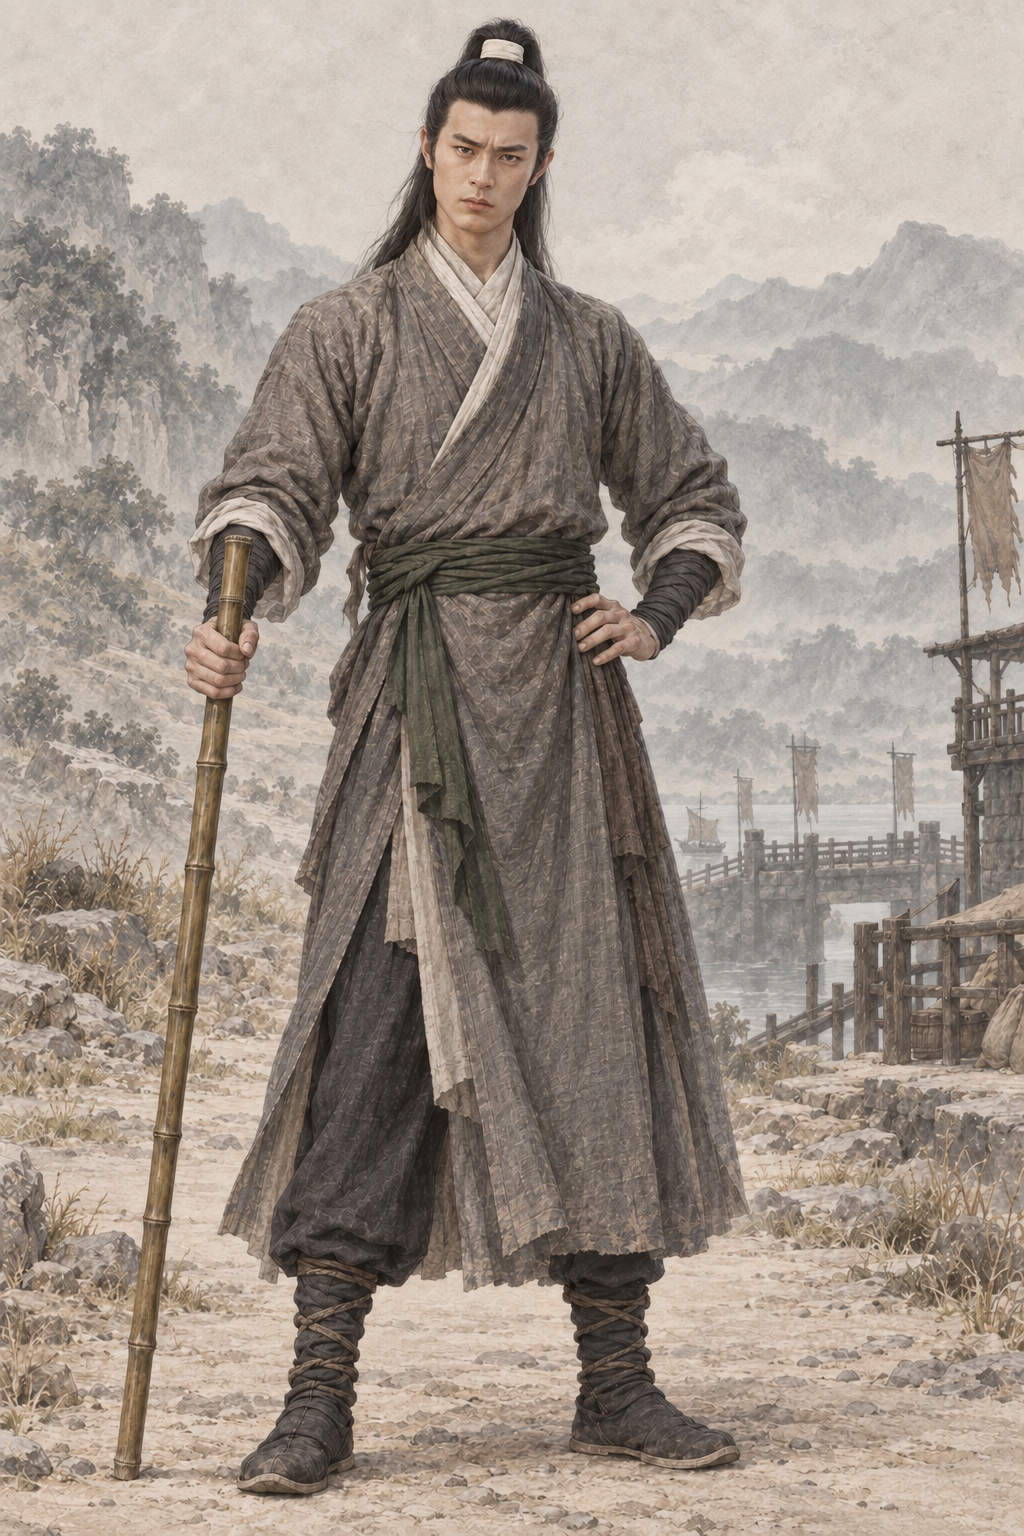
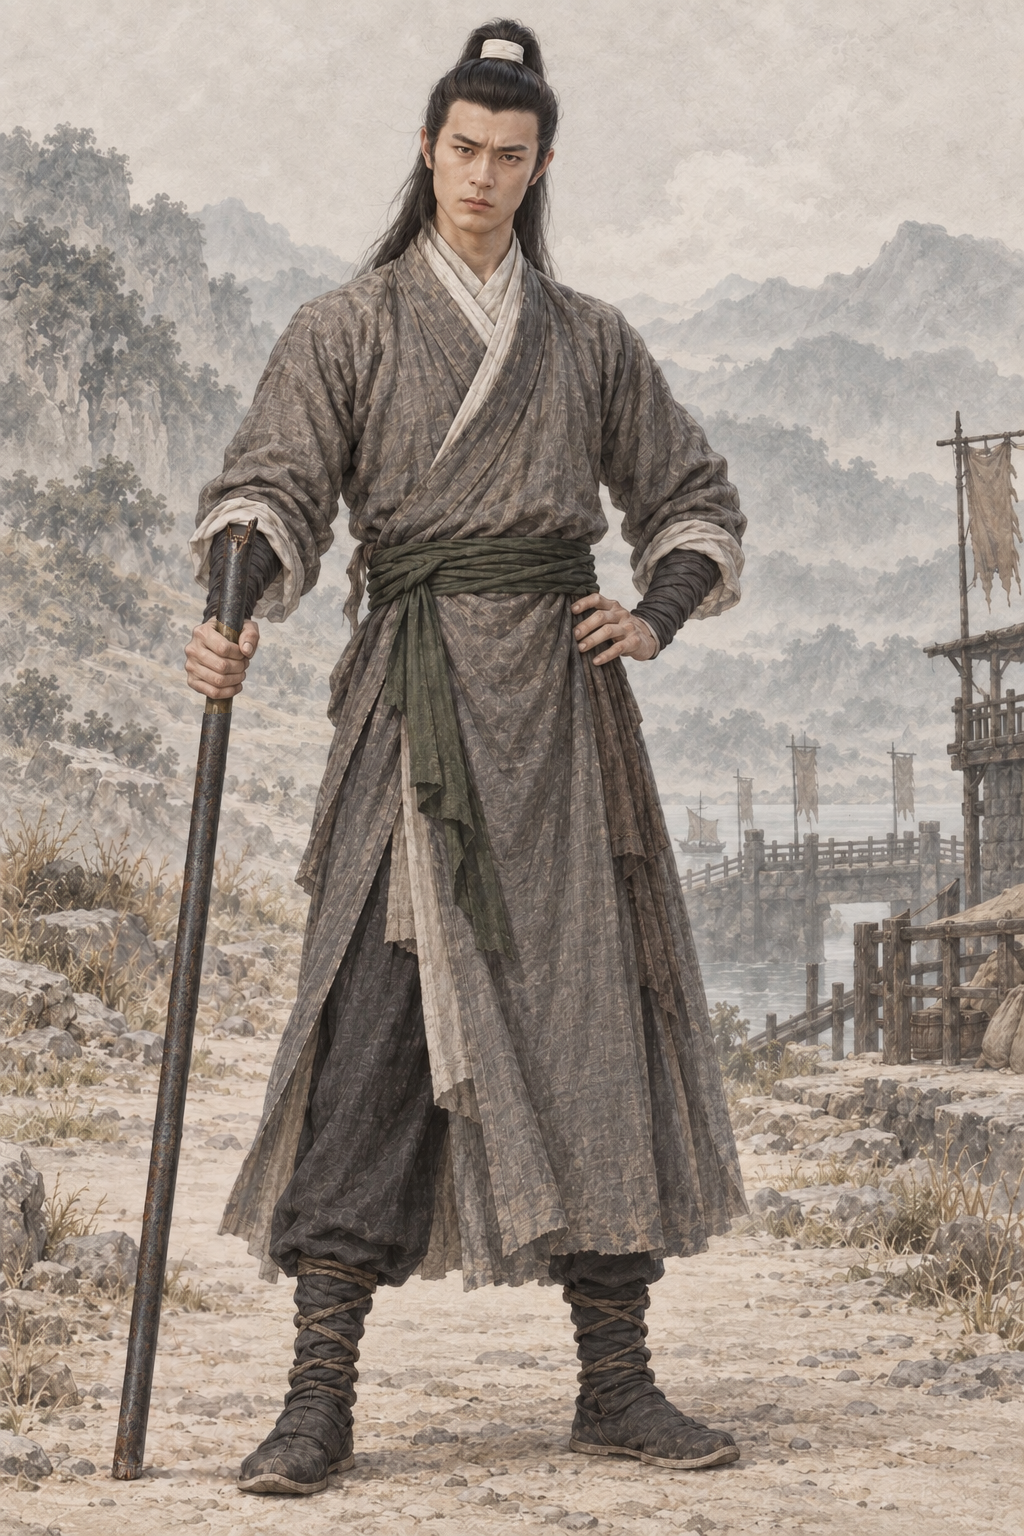
assets: AR-82 原著核对返修 杨过大胜关竹杖改断铁桨柄
原著摘句已同步提示词；已打开验图；蒙版外0像素变化。

Executed-By: Codex gpt-6.1-sol（AR-82）

Changed region(s): [[0.0938, 0.4688, 0.25, 0.9688], [0.1875, 0.3438, 0.25, 0.4062]]

diff --git a/assets/default/prompts/characters/ch03-shendiao/npc_yangguo__scene_dashengguan_youth_bamboo_staff.md b/assets/default/prompts/characters/ch03-shendiao/npc_yangguo__scene_dashengguan_youth_bamboo_staff.md
@@ -118,3 +118,8 @@ Create a premium REALISTIC Chinese wuxia character illustration with a delicate 
 - 采用作者授权宽松自查；偏差如实记录，candidate不代表approved。
 - 源PNG通常为1024×1536 RGB；其他原生2:3尺寸如实登记，原字节保存，不裁切、重编码、放大或去除溯源。
 - 完整请求、实际参考哈希及旧版本备份见 `.agents/coord/portrait-generation/realism-20261001/por_npc_yangguo__ch03_youth_scene_dashengguan_youth_bamboo_staff.prepared.json`。
+
+## 原著依据
+
+- 《神雕侠侣》第十三回 武林盟主：“杨过却用铁桨柄去打他后臀”；https://www.xuges.com/wuxia/jinyong/sdxl/088.htm
+- AR-82 返修约束（本节优先于历史提示词）：只将手里黄褐竹杖换为渔隐断裂铁桨的桨柄，是一根黝黑金属杆、顶部或一端清楚的断裂金属口，不画竹节。保留握持位置、完整双臂、站姿、脸及背景，不提前断臂。
